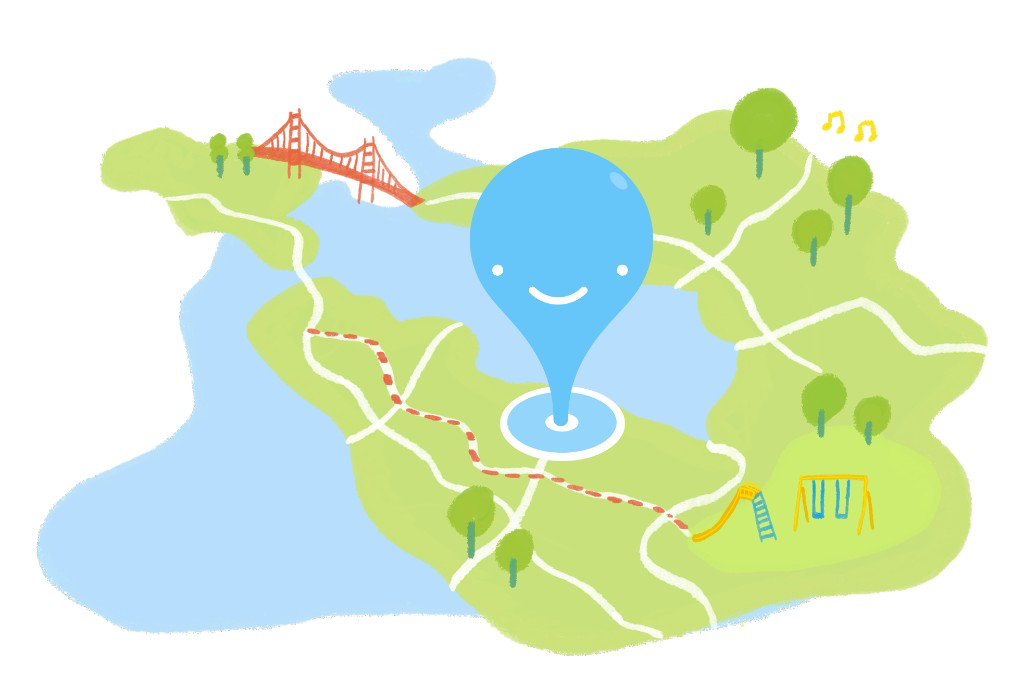
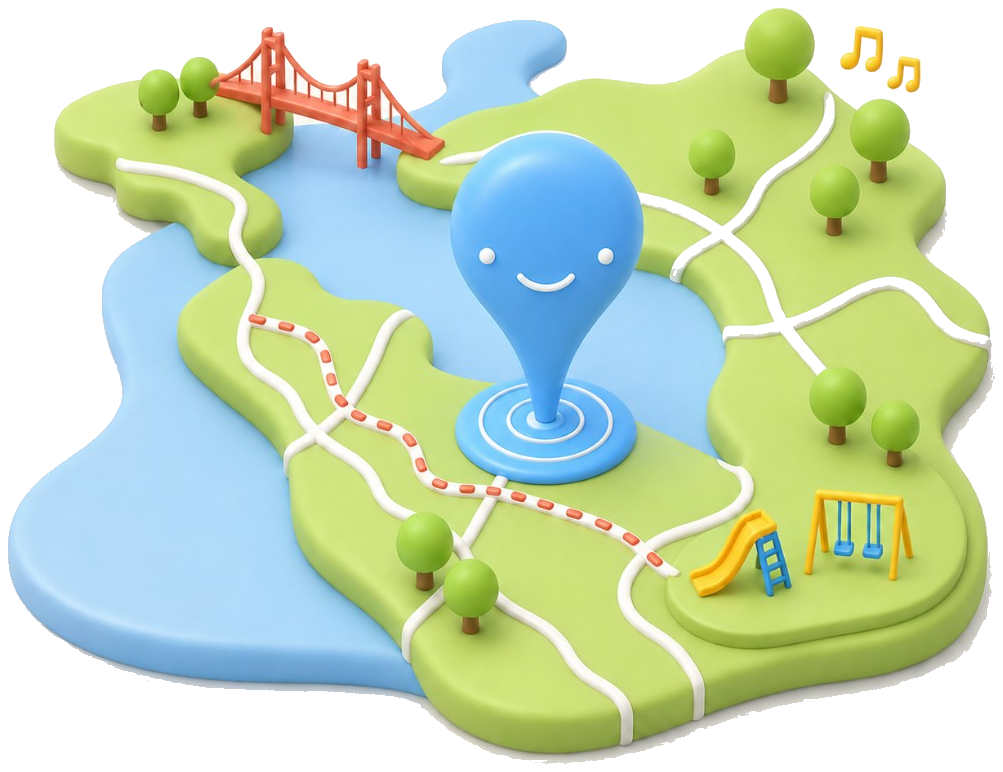
Restore Home/Browse behind event modal and refresh About hero.
Keep MemoryRouter on the overlay background path, and ship the new map hero with transparent art, soft shadow, and mobile sizing.

diff --git a/src/app/event/[eventId]/EventDetailPageClient.tsx b/src/app/event/[eventId]/EventDetailPageClient.tsx
@@ -1,14 +1,34 @@
 'use client'
 
+import { ClientRoutePage } from '@/components/ClientRoutePage'
 import { EventDetailView } from '@/components/EventDetailView'
 import { EventUnavailableState } from '@/components/empty-states/EventUnavailableState'
 import { PageContainer } from '@/components/layout/PageContainer'
 import { useCloseEventDetail } from '@/hooks/useCloseEventDetail'
 import { useEventDetailDocument } from '@/hooks/useEventDetailDocument'
+import { readEventDetailOverlayState } from '@/utils/nextEventDetailState'
+
+function backgroundEntryParts(backgroundPath: string): { pathname: string; search: string } {
+  const queryIndex = backgroundPath.indexOf('?')
+  if (queryIndex === -1) {
+    return { pathname: backgroundPath || '/', search: '' }
+  }
+  return {
+    pathname: backgroundPath.slice(0, queryIndex) || '/',
+    search: backgroundPath.slice(queryIndex),
+  }
+}
 
 export function EventDetailPageClient() {
   const { close, hasInAppReturn } = useCloseEventDetail()
   const { publicEvent, isIndexable } = useEventDetailDocument({ skipPageMeta: true })
+  const overlayBackground = readEventDetailOverlayState()?.backgroundPath
+
+  // Soft-open with @modal: keep Home/Browse as children instead of the standalone event shell.
+  if (overlayBackground) {
+    const { pathname, search } = backgroundEntryParts(overlayBackground)
+    return <ClientRoutePage pathname={pathname} search={search} />
+  }
 
   return (
     <div className="event-detail-page-shell event-detail-page-shell--standalone">

diff --git a/src/components/ClientRoutePage.tsx b/src/components/ClientRoutePage.tsx
@@ -42,6 +42,9 @@ import { ExperimentExpiredActivityLayout } from '@/views/ExperimentExpiredActivi
 import { ExperimentExpiredActivityPage } from '@/views/ExperimentExpiredActivityPage'
 import { ExperimentExpiredActivityBrowsePage } from '@/views/ExperimentExpiredActivityBrowsePage'
 import { ExperimentExpiredActivityDetailPage } from '@/views/ExperimentExpiredActivityDetailPage'
+import { ExperimentSharedEventLayout } from '@/views/ExperimentSharedEventLayout'
+import { ExperimentSharedEventPage } from '@/views/ExperimentSharedEventPage'
+import { ExperimentSharedEventDetailPage } from '@/views/ExperimentSharedEventDetailPage'
 import { AdminEventsPage } from '@/views/admin/AdminEventsPage'
 import { AdminSubmissionsPage } from '@/views/admin/AdminSubmissionsPage'
 import { trackPageView } from '@/utils/analytics'
@@ -97,6 +100,10 @@ function ClientRoutes() {
               <Route path="browse" element={<ExperimentExpiredActivityBrowsePage />} />
               <Route path="event/:eventId" element={<ExperimentExpiredActivityDetailPage />} />
             </Route>
+            <Route path="/experiment-shared-event" element={<ExperimentSharedEventLayout />}>
+              <Route index element={<ExperimentSharedEventPage />} />
+              <Route path="event/:eventId" element={<ExperimentSharedEventDetailPage />} />
+            </Route>
             <Route path="/experiment-browse-3" element={<Navigate to="/browse" replace />} />
             <Route path="/browse-experiment" element={<Navigate to="/experiment-browse" replace />} />
             <Route path="/share" element={<SharePage />} />
@@ -136,8 +143,18 @@ interface ClientRoutePageProps {
   search?: string
 }
 
+function resolveClientRouterEntry(pathname: string, search: string): string {
+  const currentEntry = `${pathname}${search}`
+  if (!/^\/event\/[^/]+$/.test(pathname)) return currentEntry
+
+  const overlay = readEventDetailOverlayState()
+  if (overlay?.backgroundPath) return overlay.backgroundPath
+
+  return currentEntry
+}
+
 export function ClientRoutePage({ pathname, search = '' }: ClientRoutePageProps) {
-  const initialEntry = `${pathname}${search}`
+  const initialEntry = resolveClientRouterEntry(pathname, search)
 
   return (
     <Suspense fallback={null}>

diff --git a/src/views/about-page.css b/src/views/about-page.css
@@ -158,6 +158,7 @@
   display: block;
   width: 100%;
   max-width: var(--about-hero-art-width-mobile);
+  margin-top: 2rem;
   margin-inline: auto;
   background: transparent;
   border: none;
@@ -174,7 +175,7 @@
   border: none;
   outline: none;
   box-shadow: none;
-  filter: none;
+  filter: drop-shadow(0 0.5rem 1.25rem rgb(16 24 40 / 0.05));
   pointer-events: none;
   user-select: none;
 }
@@ -386,6 +387,7 @@
     grid-row: 1;
     max-width: var(--about-hero-art-width-tablet);
     width: 100%;
+    margin-top: 0;
     margin-inline: 0;
     justify-self: end;
     align-self: start;
@@ -413,6 +415,7 @@
     grid-row: 1;
     max-width: var(--about-hero-art-width);
     width: 100%;
+    margin-top: 0;
     margin-inline: 0;
     justify-self: end;
     align-self: start;
@@ -506,9 +509,11 @@
   }
 
   .about-page .about-intro-art-wrap {
-    margin-top: 1.75rem;
+    margin-top: 2.75rem;
     margin-bottom: 0.5rem;
-    max-width: var(--about-hero-art-width-mobile);
+    width: 66.666%;
+    max-width: 66.666%;
+    margin-inline: auto;
   }
 
   .about-page .about-features {

diff --git a/src/views/aboutShared.ts b/src/views/aboutShared.ts
@@ -42,10 +42,10 @@ export const ABOUT_CTA_BODY =
   'Share a storytime, a parent-friendly tip, or an idea for Puddles.'
 
 export const ABOUT_HERO_ART = {
-  src: '/about/hero.png',
-  src2x: '/about/[email redacted]',
-  width: 448,
-  height: 301,
+  src: '/about/hero.png?v=5',
+  src2x: '/about/[email redacted]?v=5',
+  width: 501,
+  height: 386,
   displayWidth: 335,
 } as const
 

diff --git a/src/components/about/AboutStoryIntro.tsx b/src/components/about/AboutStoryIntro.tsx
@@ -39,7 +39,7 @@ export function AboutStoryIntro() {
             intrinsicWidth={ABOUT_HERO_ART.width}
             intrinsicHeight={ABOUT_HERO_ART.height}
             displayWidth={ABOUT_HERO_ART.displayWidth}
-            sizes="(max-width: 639px) 8.25rem, (max-width: 1023px) 10.625rem, 18.75rem"
+            sizes="(max-width: 767px) 67vw, (max-width: 1023px) 10.625rem, 18.75rem"
             className="about-intro-art"
             loading="eager"
           />